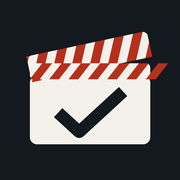
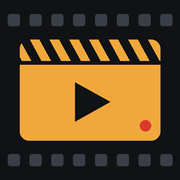
キネコマ：名前を「キネコマ」に変え、フィルムとカチンコの意匠にした
- 上と下の帯を黒いフィルムにし、送り穴を付けた。ロゴと琥珀色の時計を追加
- 記録の画面をカチンコ型にした（縞・シーン／カット／テイク・録画中の赤い点）
- シーンのカードにフィルムの縁とスレート風の番号を付けた
- 明るい表示と暗い表示の色を作り直した
- ホーム画面のアイコンをフィルムの1コマとカチンコの絵に変えた
- マニフェストと説明書の名前を変え、キャッシュを新しくした（v14）
- 記録・作品データ・保存場所はそのまま

Claude-Session: https://claude.ai/code/session_01KYqnuvypKM65D4UHvSvQ6X

diff --git a/shortfilm/index.html b/shortfilm/index.html
@@ -5,39 +5,42 @@
 <meta name="viewport" content="width=device-width,initial-scale=1,viewport-fit=cover">
 <meta name="apple-mobile-web-app-capable" content="yes">
 <meta name="mobile-web-app-capable" content="yes">
-<meta name="apple-mobile-web-app-status-bar-style" content="default">
-<meta name="apple-mobile-web-app-title" content="撮影帳">
-<meta name="theme-color" content="#ffffff" media="(prefers-color-scheme: light)">
-<meta name="theme-color" content="#14181d" media="(prefers-color-scheme: dark)">
+<meta name="apple-mobile-web-app-status-bar-style" content="black">
+<meta name="apple-mobile-web-app-title" content="キネコマ">
+<meta name="theme-color" content="#111215">
 <meta name="description" content="台本・香盤表・資料を読み込んで、撮影チェックシートと編集用のスクリプト表を作る短編映画の現場アプリ">
 <link rel="manifest" href="manifest.json">
 <link rel="icon" href="icon-192.png">
 <link rel="apple-touch-icon" href="apple-touch-icon.png">
-<title>撮影帳</title>
+<title>キネコマ</title>
 <style>
 :root {
-  --bg: #eceff2; --surface: #ffffff; --surface2: #f5f7f8; --ink: #14191f; --muted: #58636e; --line: #d3d9df;
-  --accent: #b5301c; --accent-ink: #ffffff; --accent-bg: #fbe7e3;
-  --ok: #1d7444; --ok-bg: #def0e4; --keep: #9a5f00; --keep-bg: #faedd2; --ng: #6c7680; --ng-bg: #e7eaed;
-  --sel: #14191f; --sel-ink: #ffffff; --warn: #b5301c;
+  --bg: #e3e5e8; --surface: #fbfbfa; --surface2: #eff0f2; --ink: #121418; --muted: #5a616a; --line: #cfd3d8;
+  --accent: #b2610c; --accent-ink: #ffffff; --accent-bg: #f5e4cc;
+  --ok: #1e7a4c; --ok-bg: #dcefe3; --keep: #8a5d00; --keep-bg: #f7ebcf; --ng: #6a717a; --ng-bg: #e6e8eb;
+  --sel: #121418; --sel-ink: #f3efe6; --warn: #c23a2b; --rec: #d93a2b;
+  --film: #111215; --film2: #1b1d22; --film-ink: #ece8df; --film-mute: #9aa0a8; --hole: #e3e5e8; --amber: #f0a83c;
   --font: -apple-system, BlinkMacSystemFont, "Hiragino Sans", "Hiragino Kaku Gothic ProN", "Noto Sans JP", "Yu Gothic", "Meiryo", sans-serif;
+  --mono: ui-monospace, "SF Mono", "Menlo", "Roboto Mono", "Noto Sans Mono", "Consolas", monospace;
   --tabbar: 58px;
   color-scheme: light;
 }
 @media (prefers-color-scheme: dark) {
   :root:not([data-theme="light"]) {
-    --bg: #0c1014; --surface: #161c22; --surface2: #1c242b; --ink: #e7edf2; --muted: #9aa8b4; --line: #2a353f;
-    --accent: #ff7a5c; --accent-ink: #1d0702; --accent-bg: #3a1a14;
-    --ok: #5fd08f; --ok-bg: #133423; --keep: #f1b54a; --keep-bg: #3a2c0f; --ng: #a3adb7; --ng-bg: #262e36;
-    --sel: #e7edf2; --sel-ink: #14191f; --warn: #ff7a5c;
+    --bg: #08090b; --surface: #14161a; --surface2: #1b1e23; --ink: #ece8df; --muted: #9aa0a8; --line: #2a2e35;
+    --accent: #f0a83c; --accent-ink: #1b1206; --accent-bg: #2c2111;
+    --ok: #5fcf90; --ok-bg: #11291c; --keep: #f0c24a; --keep-bg: #2e260f; --ng: #9ca3ab; --ng-bg: #23272d;
+    --sel: #ece8df; --sel-ink: #121418; --warn: #ff6a57; --rec: #ff4a3a;
+    --film: #000000; --film2: #121317; --film-ink: #ece8df; --film-mute: #8f959d; --hole: #2b2f36; --amber: #f0a83c;
     color-scheme: dark;
   }
 }
 :root[data-theme="dark"] {
-    --bg: #0c1014; --surface: #161c22; --surface2: #1c242b; --ink: #e7edf2; --muted: #9aa8b4; --line: #2a353f;
-    --accent: #ff7a5c; --accent-ink: #1d0702; --accent-bg: #3a1a14;
-    --ok: #5fd08f; --ok-bg: #133423; --keep: #f1b54a; --keep-bg: #3a2c0f; --ng: #a3adb7; --ng-bg: #262e36;
-    --sel: #e7edf2; --sel-ink: #14191f; --warn: #ff7a5c;
+    --bg: #08090b; --surface: #14161a; --surface2: #1b1e23; --ink: #ece8df; --muted: #9aa0a8; --line: #2a2e35;
+    --accent: #f0a83c; --accent-ink: #1b1206; --accent-bg: #2c2111;
+    --ok: #5fcf90; --ok-bg: #11291c; --keep: #f0c24a; --keep-bg: #2e260f; --ng: #9ca3ab; --ng-bg: #23272d;
+    --sel: #ece8df; --sel-ink: #121418; --warn: #ff6a57; --rec: #ff4a3a;
+    --film: #000000; --film2: #121317; --film-ink: #ece8df; --film-mute: #8f959d; --hole: #2b2f36; --amber: #f0a83c;
     color-scheme: dark;
 }
 * { box-sizing: border-box; margin: 0; padding: 0; -webkit-tap-highlight-color: transparent; }
@@ -394,11 +397,89 @@ pre.doc { white-space: pre-wrap; word-break: break-word; font-family: var(--font
   #print .scr { font-size: 8.5pt; line-height: 1.45; border: .5pt solid #999; padding: 2mm 3mm; }
   #print .scr .a { color: #333; padding-left: 4mm; }
 }
+
+/* ═════ キネコマのデザイン：フィルムの帯とカチンコ ═════ */
+.perf-b, .perf-t { position: relative; }
+.perf-b::after, .perf-t::before { content: ''; position: absolute; left: 0; right: 0; height: 7px; pointer-events: none;
+  background: repeating-linear-gradient(90deg, transparent 0 6px, var(--hole) 6px 16px, transparent 16px 22px); opacity: .95; }
+.perf-b::after { bottom: 4px; }
+.perf-t::before { top: 4px; }
+.top { background: var(--film); color: var(--film-ink); border-bottom: 0; padding-bottom: 18px; gap: 10px; }
+.logo { display: inline-flex; align-items: center; gap: 7px; flex: 0 0 auto; color: var(--film-ink); }
+.logo svg { width: 24px; height: 24px; }
+.logo b { font-size: 16px; font-weight: 900; letter-spacing: .14em; }
+.logo small { font-family: var(--mono); font-size: 10px; color: var(--film-mute); letter-spacing: .04em; align-self: flex-end; margin-bottom: 2px; }
+.top .ttl { font-size: 14px; font-weight: 700; color: var(--film-mute); border-left: 1px solid #3a3e45; padding-left: 10px; }
+.top .ttl small { display: none; }
+.clock { font-family: var(--mono); font-size: 19px; font-weight: 700; color: var(--amber); letter-spacing: .02em; }
+.top #helpbtn { background: transparent; color: var(--film-ink); border-color: #3d4249; min-height: 34px; }
+.tabbar { background: var(--film); border-top: 0; padding-top: 12px; }
+.tabbar button { color: #80868e; position: relative; }
+.tabbar button[aria-current="page"] { color: var(--amber); }
+.tabbar button[aria-current="page"]::after { content: ''; position: absolute; bottom: 6px; left: 32%; right: 32%; height: 3px; border-radius: 2px; background: var(--amber); }
+.sheet-top { background: var(--film); color: var(--film-ink); border-bottom: 0; padding-bottom: 16px; }
+.sheet-top .x { color: var(--film-ink); border-color: #3d4249; }
+.sheet-top .btn { background: transparent; color: var(--film-ink); border-color: #3d4249; }
+.sheet-top .btn.primary { background: var(--amber); border-color: var(--amber); color: #1b1206; }
+.sheet-top .donebtn[aria-pressed="true"] { background: var(--ok); border-color: var(--ok); color: #fff; }
+#workbar button { background: var(--amber); color: #1b1206; letter-spacing: .02em; }
+#updbar button { background: var(--film2); color: var(--film-ink); }
+
+h2 { letter-spacing: .02em; }
+h3 { letter-spacing: .12em; }
+.card { border-radius: 12px; box-shadow: 0 1px 0 rgba(0,0,0,.04); }
+.btn { border-radius: 10px; }
+.btn.primary { background: var(--accent); border-color: var(--accent); color: var(--accent-ink); }
+.btn.dark { background: var(--film); border-color: var(--film); color: var(--film-ink); }
+.seg { border-radius: 10px; }
+.seg button[aria-pressed="true"] { background: var(--film); color: var(--film-ink); box-shadow: inset 0 -3px 0 var(--amber); }
+.chip[aria-pressed="true"], .chip.sel { background: var(--film); border-color: var(--film); color: var(--film-ink); }
+
+/* シーンのカード：左にフィルムの縁 */
+.scard { position: relative; padding-left: 30px; border-radius: 12px; overflow: hidden; }
+.scard::before { content: ''; position: absolute; left: 0; top: 0; bottom: 0; width: 18px; background: var(--film);
+  background-image: repeating-linear-gradient(180deg, transparent 0 8px, var(--hole) 8px 16px, transparent 16px 20px);
+  background-size: 7px 100%; background-repeat: repeat-y; background-position: 5px 0; }
+.scard.now { box-shadow: 0 0 0 2px var(--amber); border-color: transparent; }
+.scard .tm { font-family: var(--mono); font-weight: 700; letter-spacing: .02em; }
+.scard .sn, .srow .no, .grp-h .sn { font-family: var(--mono); letter-spacing: .02em; }
+.scard .sn { background: var(--film); color: var(--film-ink); border-radius: 5px; padding: 1px 8px; font-size: 17px; }
+.srow .no { font-size: 17px; }
+.srow { border-left: 4px solid var(--film); }
+.cutpill { font-family: var(--mono); }
+.timer { font-family: var(--mono); }
+
+/* 記録の画面：カチンコ */
+.slate { background: var(--film); color: var(--film-ink); border-radius: 12px; overflow: hidden; box-shadow: 0 4px 14px rgba(0,0,0,.25); }
+.clap { height: 26px; background: repeating-linear-gradient(-58deg, #f2efe8 0 16px, #0c0d0f 16px 32px); border-bottom: 3px solid #000; }
+.slate-body { padding: 10px 12px 12px; display: flex; flex-direction: column; gap: 8px; }
+.sl-title { display: flex; justify-content: space-between; gap: 8px; font-size: 12px; color: var(--film-mute); letter-spacing: .08em; }
+.sl-title span:last-child { font-family: var(--mono); }
+.sl-grid { display: grid; grid-template-columns: 1.15fr 1fr 1fr; border: 1px solid #3d4249; border-radius: 8px; overflow: hidden; }
+.sl-grid > div { padding: 6px 10px; }
+.sl-grid > div + div { border-left: 1px solid #3d4249; }
+.sl-grid span { display: block; font-size: 11px; font-weight: 800; color: var(--film-mute); letter-spacing: .1em; }
+.sl-grid b { display: block; font-family: var(--mono); font-size: 36px; line-height: 1.05; color: #fff; font-weight: 700; }
+.sl-sub { font-size: 13px; color: #cfcac0; }
+.tcode { display: flex; align-items: center; justify-content: center; gap: 12px; padding: 6px 0 2px; }
+.tcode .recdot { width: 14px; height: 14px; border-radius: 50%; background: #3d4249; flex: 0 0 auto; }
+.tcode .rectxt { font-family: var(--mono); font-size: 12px; font-weight: 700; color: var(--film-mute); letter-spacing: .12em; }
+.tcode.run .recdot { background: var(--rec); box-shadow: 0 0 10px var(--rec); animation: recblink 1s steps(2, start) infinite; }
+.tcode.run .rectxt { color: var(--rec); }
+.tcode .timer { font-size: 50px; color: #fff; letter-spacing: .02em; }
+@keyframes recblink { to { opacity: .25; } }
+@media (prefers-reduced-motion: reduce) { .tcode.run .recdot { animation: none; } }
+.slate .bigbtn { background: #24272d; color: var(--film-ink); border: 1px solid #3d4249; box-shadow: none; }
+.slate .bigbtn.run { background: var(--rec); border-color: var(--rec); color: #fff; }
+.slate .results .rOK { background: var(--ok); color: #fff; }
+.slate .results .rKEEP { background: transparent; color: var(--amber); border-color: var(--amber); }
+.slate .results .rNG { background: #24272d; color: var(--film-ink); border-color: #3d4249; }
 </style>
 </head>
 <body>
 <div id="app">
-  <header class="top">
+  <header class="top perf-b">
+    <span class="logo" aria-label="キネコマ"><svg viewBox="0 0 24 24" aria-hidden="true"><rect x="2.5" y="2" width="19" height="20" rx="2.2" fill="none" stroke="currentColor" stroke-width="1.6"/><rect x="7.2" y="5.5" width="9.6" height="13" rx="1" fill="var(--amber)"/><g fill="currentColor"><rect x="3.9" y="4" width="1.6" height="2.2" rx=".4"/><rect x="3.9" y="9" width="1.6" height="2.2" rx=".4"/><rect x="3.9" y="14" width="1.6" height="2.2" rx=".4"/><rect x="3.9" y="18.6" width="1.6" height="1.6" rx=".4"/><rect x="18.5" y="4" width="1.6" height="2.2" rx=".4"/><rect x="18.5" y="9" width="1.6" height="2.2" rx=".4"/><rect x="18.5" y="14" width="1.6" height="2.2" rx=".4"/><rect x="18.5" y="18.6" width="1.6" height="1.6" rx=".4"/></g></svg><b>キネコマ</b><small id="verbadge"></small></span>
     <div class="ttl" id="ttl"></div>
     <div class="clock" id="clock"></div>
     <button class="btn small" data-a="help" id="helpbtn">使い方</button>
@@ -412,7 +493,7 @@ pre.doc { white-space: pre-wrap; word-break: break-word; font-family: var(--font
     <section class="view" id="v-log" aria-label="記録" hidden></section>
     <section class="view" id="v-out" aria-label="出力" hidden></section>
   </main>
-  <nav class="tabbar" id="tabbar" aria-label="切り替え"></nav>
+  <nav class="tabbar perf-t" id="tabbar" aria-label="切り替え"></nav>
 </div>
 <div id="sheets"></div>
 <div id="toast" role="status" aria-live="polite"></div>
@@ -425,7 +506,7 @@ pre.doc { white-space: pre-wrap; word-break: break-word; font-family: var(--font
 <script>
 (() => {
 'use strict';
-const VERSION = '2.2（11/3 撮り方の手引きと根拠）';
+const VERSION = '3.0（11/3 キネコマに名前を変え、フィルムとカチンコのデザインに）';
 
 /* ───────── 基本 ───────── */
 const $ = id => document.getElementById(id);
@@ -1541,7 +1622,8 @@ function renderTabs() {
   $('tabbar').innerHTML = TABS.map(([k, l]) => `<button data-a="tab" data-k="${k}" ${S.tab === k ? 'aria-current="page"' : ''}>${ICON[k]}<span>${l}</span></button>`).join('');
 }
 function renderTop() {
-  $('ttl').innerHTML = `<small>撮影帳 ${esc(VERSION.split('（')[0])}</small>${esc(P.title || '作品名は未設定')}`;
+  $('ttl').textContent = P.title || '作品名は未設定';
+  $('verbadge').textContent = VERSION.split('（')[0];
   $('clock').textContent = nowHM();
 }
 const RENDER = { docs: renderDocs, plan: renderPlan, shoot: renderShoot, log: renderLog, out: renderOut };
@@ -1880,7 +1962,7 @@ function renderOut() {
     <section class="card"><h2>作品データ</h2><p class="lead">${MODE.artifact ? '別の作品データ（.json）を読み込むと、今の内容と入れ替わります。' : '別の端末に移す、スタッフに渡す、念のため残すときに。読み込むと今の内容と入れ替わります。'}</p>
       <div class="btns grid2">${MODE.artifact ? '' : '<button class="btn" data-a="backup">作品データを保存</button>'}<button class="btn" data-a="restore">作品データを読み込む</button><button class="btn" data-a="openLinkBox">リンクで作品を開く</button></div>
       <div class="btns"><button class="btn danger" data-a="wipe">新しい作品を始める（全部消す）</button></div></section>
-    <p class="small" style="text-align:center">撮影帳 ${esc(VERSION)}　<button class="link" data-a="licenses">使っている部品</button></p>
+    <p class="small" style="text-align:center">キネコマ ${esc(VERSION)}　<button class="link" data-a="licenses">使っている部品</button></p>
   </div>`;
 }
 
@@ -1938,7 +2020,7 @@ function checkSheetHtml(dayIds) {
       <div class="ph"><b>${esc(dayLabel(d))}</b>${d && d.date ? `（${esc(d.date)}）` : ''}${d && d.call ? `　集合 ${esc(d.call)}` : ''}${d && d.meet ? `　${esc(d.meet)}` : ''}${d && d.notes ? `<br>${esc(d.notes)}` : ''}${P.memo ? `<br>${esc(P.memo)}` : ''}</div>
       <table><thead><tr><th>撮了</th><th>時刻</th><th>S#</th><th>場所・昼夜</th><th>ロケ地</th><th>内容</th><th>出演</th>${hasPrep ? '<th>小道具・衣装・メイク</th>' : ''}<th>${items.some(it => { const sc = itemScene(it); return sc && sc.cuts.some(c => c.desc); }) ? '撮るもの' : 'カット'}</th><th>備考</th></tr></thead><tbody>${rows || `<tr><td colspan="${nCol}">シーンがありません</td></tr>`}</tbody></table>
       ${(P.rules || []).length ? `<div class="rules"><b>現場の注意</b><ul>${P.rules.map(r => `<li>${esc(r)}</li>`).join('')}</ul></div>` : ''}
-      ${gear}<div class="foot">${esc(credLine())}　出力 ${fmtAt(Date.now())}　撮影帳</div></section>`;
+      ${gear}<div class="foot">${esc(credLine())}　出力 ${fmtAt(Date.now())}　キネコマ</div></section>`;
   }).join('');
 }
 function credLine() { return (P.credits || []).map(c => `${c.role}：${c.name}`).join('　'); }
@@ -2019,7 +2101,7 @@ function bookHtml() {
     ${P.gear.length ? `<div class="gear"><b>持ち物・機材</b>${P.gear.map(g => `<div>${pbox}${esc(g)}</div>`).join('')}</div>` : ''}
     ${(P.camPlan || []).length ? `<div class="rules"><b>カメラの決まりごと（作品全体）</b><ul>${P.camPlan.map(r => `<li>${esc(r)}</li>`).join('')}</ul></div>` : ''}
     ${(P.rules || []).length ? `<div class="rules"><b>現場の注意</b><ul>${P.rules.map(r => `<li>${esc(r)}</li>`).join('')}</ul></div>` : ''}
-    <div class="foot">次のページから、シーンごとの資料（台本の順）。出力 ${fmtAt(Date.now())}　撮影帳</div></section>`;
+    <div class="foot">次のページから、シーンごとの資料（台本の順）。出力 ${fmtAt(Date.now())}　キネコマ</div></section>`;
   const scene = sc => {
     const when = sc.noshoot ? '撮影なし（資料映像・写真・ＣＧで作る）' : [sc.day ? `${dayLabel(dayById(sc.day))} ${sc.start || ''}` : '日程未定', sc.loc ? '＠' + sc.loc : ''].filter(Boolean).join('　');
     const more = (P.slots || []).filter(x => x.sc === sc.id).map(x => `${dayLabel(dayById(x.day))} ${x.start || ''}　${x.summary || ''}${x.loc ? '　＠' + x.loc : ''}`);
@@ -2227,7 +2309,7 @@ function renderSheets() {
   document.body.style.overflow = S.sheets.length ? 'hidden' : '';
   if (S.sheets.length && S.sheets[S.sheets.length - 1].t === 'rec') tickTimer();
 }
-const sheetTop = (title, extra = '') => `<div class="sheet-top"><button class="x" data-a="close" aria-label="閉じる">×</button><div class="t">${title}</div>${extra}</div>`;
+const sheetTop = (title, extra = '') => `<div class="sheet-top perf-b"><button class="x" data-a="close" aria-label="閉じる">×</button><div class="t">${title}</div>${extra}</div>`;
 function scriptLinesHtml(sc) {
   if (!sc.lines || !sc.lines.length) return '<p class="small">台本の本文はありません（台本を取り込むと出ます）。</p>';
   return `<div class="script">${sc.lines.map(l => l.k === 'd' ? `<div class="d"><b>${esc(l.who)}</b>${l.p ? `（${esc(l.p)}）` : ''}「${esc(l.text).replace(/\n/g, '<br>')}」</div>` : `<div class="a">${esc(l.text)}</div>`).join('')}</div>`;
@@ -2290,8 +2372,25 @@ const SHEET = {
     const last = S.last && S.last.sc === sc.id && S.last.cut === cut ? S.last.sec : 0;
     return sheetTop(`S#${esc(sc.no)} ${esc(sc.place)}${todLine(sc) ? `（${esc(todLine(sc))}）` : ''}`, `<button class="btn small donebtn" data-a="sceneDone" data-id="${sc.id}" aria-pressed="${sceneDone(sc)}">${sceneDone(sc) ? '撮了 ✓' : '撮了'}</button>`) + `<div class="sheet-body"><div class="wrap">
       <div class="chips">${chips}<button class="chip ${!sc.cuts.length ? '' : 'dash'}" data-a="recCut" data-id="" aria-pressed="${cut === ''}">一連</button><button class="chip dash" data-a="addCutRec" data-id="${sc.id}">＋カット</button></div>
+      <section class="slate">
+        <div class="clap" aria-hidden="true"></div>
+        <div class="slate-body">
+          <div class="sl-title"><span>${esc(P.title || '')}</span><span>${(() => { const d = new Date(); return `${d.getMonth() + 1}/${d.getDate()}`; })()}</span></div>
+          <div class="sl-grid"><div><span>シーン</span><b>${esc(sc.no)}</b></div><div><span>カット</span><b>${c ? esc(c.no) : '一連'}</b></div><div><span>テイク</span><b>${n}</b></div></div>
+          ${c && (c.size || c.desc) ? `<div class="sl-sub">${esc([c.size, c.desc].filter(Boolean).join('　'))}</div>` : ''}
+          <div class="tcode ${running ? 'run' : ''}"><i class="recdot" aria-hidden="true"></i><span class="timer" id="timer">${running ? '0:00.0' : last ? fmtSec(last) : '0:00'}</span><span class="rectxt">${running ? '録画中' : last ? '計った長さ' : '待機'}</span></div>
+          <button class="bigbtn ${running ? 'run' : ''}" data-a="${running ? 'recStop' : 'recStart'}">${running ? 'カット（止める）' : 'スタート（計る）'}</button>
+          <div class="results"><button class="rOK" data-a="recResult" data-r="OK">OK</button><button class="rKEEP" data-a="recResult" data-r="KEEP">KEEP</button><button class="rNG" data-a="recResult" data-r="NG">NG</button></div>
+        </div>
+      </section>
       <section class="card rec-top">
-        <div class="ctlabel">${esc(cutLabel(sc, cut))}　テイク ${n}${c && (c.size || c.desc) ? `<br><small>${esc([c.size, c.desc].filter(Boolean).join('　'))}</small>` : ''}</div>
+        <div class="f2"><label class="field"><span>クリップ名（カメラ）</span><input id="rc-clip" value="${esc(suggest('clip'))}" placeholder="例：A001_C001" autocapitalize="characters"></label>
+          <label class="field"><span>音声ファイル</span><input id="rc-snd" value="${esc(suggest('snd'))}" placeholder="例：ZOOM0001"></label></div>
+        <label class="field"><span>メモ（NGの理由、良かったところなど）</span><input id="rc-note" placeholder="例：台詞とちり"></label>
+        <div class="notechips">${['芝居', '台詞', 'カメラ', 'ピント', '音', '外の音', '照明', '映り込み', '段取り', '尻OK', '頭OK', '監督の好み'].map(w => `<button data-a="noteAdd" data-w="${w}">${w}</button>`).join('')}</div>
+        <p class="small">スタート→カット で長さを計り、OK・KEEP・NG を押すと1テイク記録されます。計らずに押してもかまいません。</p>
+      </section>
+      <section class="card rec-top"><h3>このカットの撮り方</h3>
         ${(() => { const pl = plans(c); if (!pl.length) return ''; const k = Math.min(c.pick || 0, pl.length - 1), x = pl[k];
           return `${pl.length > 1 ? `<div class="chips planchips">${pl.map((p, i) => `<button class="chip" data-a="pickPlan" data-sc="${sc.id}" data-id="${c.id}" data-i="${i}" aria-pressed="${i === k}">案${planLabel(i)}<span class="small">${esc(p.when)}</span></button>`).join('')}</div>` : ''}
             <div class="memo"><b>カメラ${pl.length > 1 ? `（案${planLabel(k)}）` : ''}</b>${esc(x.cam)}${mmLine(planFig(c, k))}${x.why ? `<span class="small">理由：${esc(x.why)}</span>` : ''}${basisHtml(k ? c.alts[k - 1] : c, planFig(c, k), sc)}</div>
@@ -2299,14 +2398,6 @@ const SHEET = {
         ${sc.axis ? `<div class="small"><b>画面の向き・軸：</b>${esc(sc.axis)}</div>` : ''}
         ${sc.dir ? `<div class="memo"><b>演出</b>${esc(sc.dir)}</div>` : ''}
         ${(sc.refs || []).some(id => IMG[id]) ? `<div class="thumbs">${thumbs(sc.refs)}</div>` : ''}
-        <div class="timer ${running ? 'run' : ''}" id="timer">${running ? '0:00.0' : last ? fmtSec(last) : '0:00'}</div>
-        <button class="bigbtn ${running ? 'run' : ''}" data-a="${running ? 'recStop' : 'recStart'}">${running ? 'カット（止める）' : 'スタート（計る）'}</button>
-        <div class="results"><button class="rOK" data-a="recResult" data-r="OK">OK</button><button class="rKEEP" data-a="recResult" data-r="KEEP">KEEP</button><button class="rNG" data-a="recResult" data-r="NG">NG</button></div>
-        <div class="f2"><label class="field"><span>クリップ名（カメラ）</span><input id="rc-clip" value="${esc(suggest('clip'))}" placeholder="例：A001_C001" autocapitalize="characters"></label>
-          <label class="field"><span>音声ファイル</span><input id="rc-snd" value="${esc(suggest('snd'))}" placeholder="例：ZOOM0001"></label></div>
-        <label class="field"><span>メモ（NGの理由、良かったところなど）</span><input id="rc-note" placeholder="例：台詞とちり"></label>
-        <div class="notechips">${['芝居', '台詞', 'カメラ', 'ピント', '音', '外の音', '照明', '映り込み', '段取り', '尻OK', '頭OK', '監督の好み'].map(w => `<button data-a="noteAdd" data-w="${w}">${w}</button>`).join('')}</div>
-        <p class="small">スタート→カット で長さを計り、OK・KEEP・NG を押すと1テイク記録されます。計らずに押してもかまいません。</p>
       </section>
       <section class="card"><div class="row-h"><h3 class="grow">このシーンのテイク</h3><span class="small">${ts.length}</span></div>
         <div class="takes">${ts.map(t => takeRow(sc, t)).join('') || '<p class="small">まだありません</p>'}</div></section>

diff --git a/shortfilm/sw.js b/shortfilm/sw.js
@@ -1,5 +1,5 @@
 // 撮影現場で電波が弱くても使えるように、アプリと読み取り用の部品を端末に残す。
-const CACHE = 'satsueicho-v13';
+const CACHE = 'satsueicho-v14';
 const CORE = ['./', './index.html', './manifest.json', './apple-touch-icon.png', './icon-192.png', './icon-512.png'];
 const LIBS = ['./lib/xlsx.full.min.js', './lib/mammoth.browser.min.js', './lib/pdf.min.js', './lib/pdf.worker.min.js'];
 

diff --git a/shortfilm/README.md b/shortfilm/README.md
@@ -1,4 +1,6 @@
-# 撮影帳（短編映画の撮影と記録）
+# キネコマ（撮影と記録の現場手帳）
+
+名前は「キネマ」と「コマ（フィルムの1コマ）」から。1コマずつ撮って記録するための現場の手帳です。
 
 台本・香盤表・カット表・そのほかの資料を読み込んで、当日の **撮影チェックシート** と、編集に渡す **スクリプト表** を作る HTML アプリです。サーバーは要らず、データは使っている端末の中に保存されます。
 
